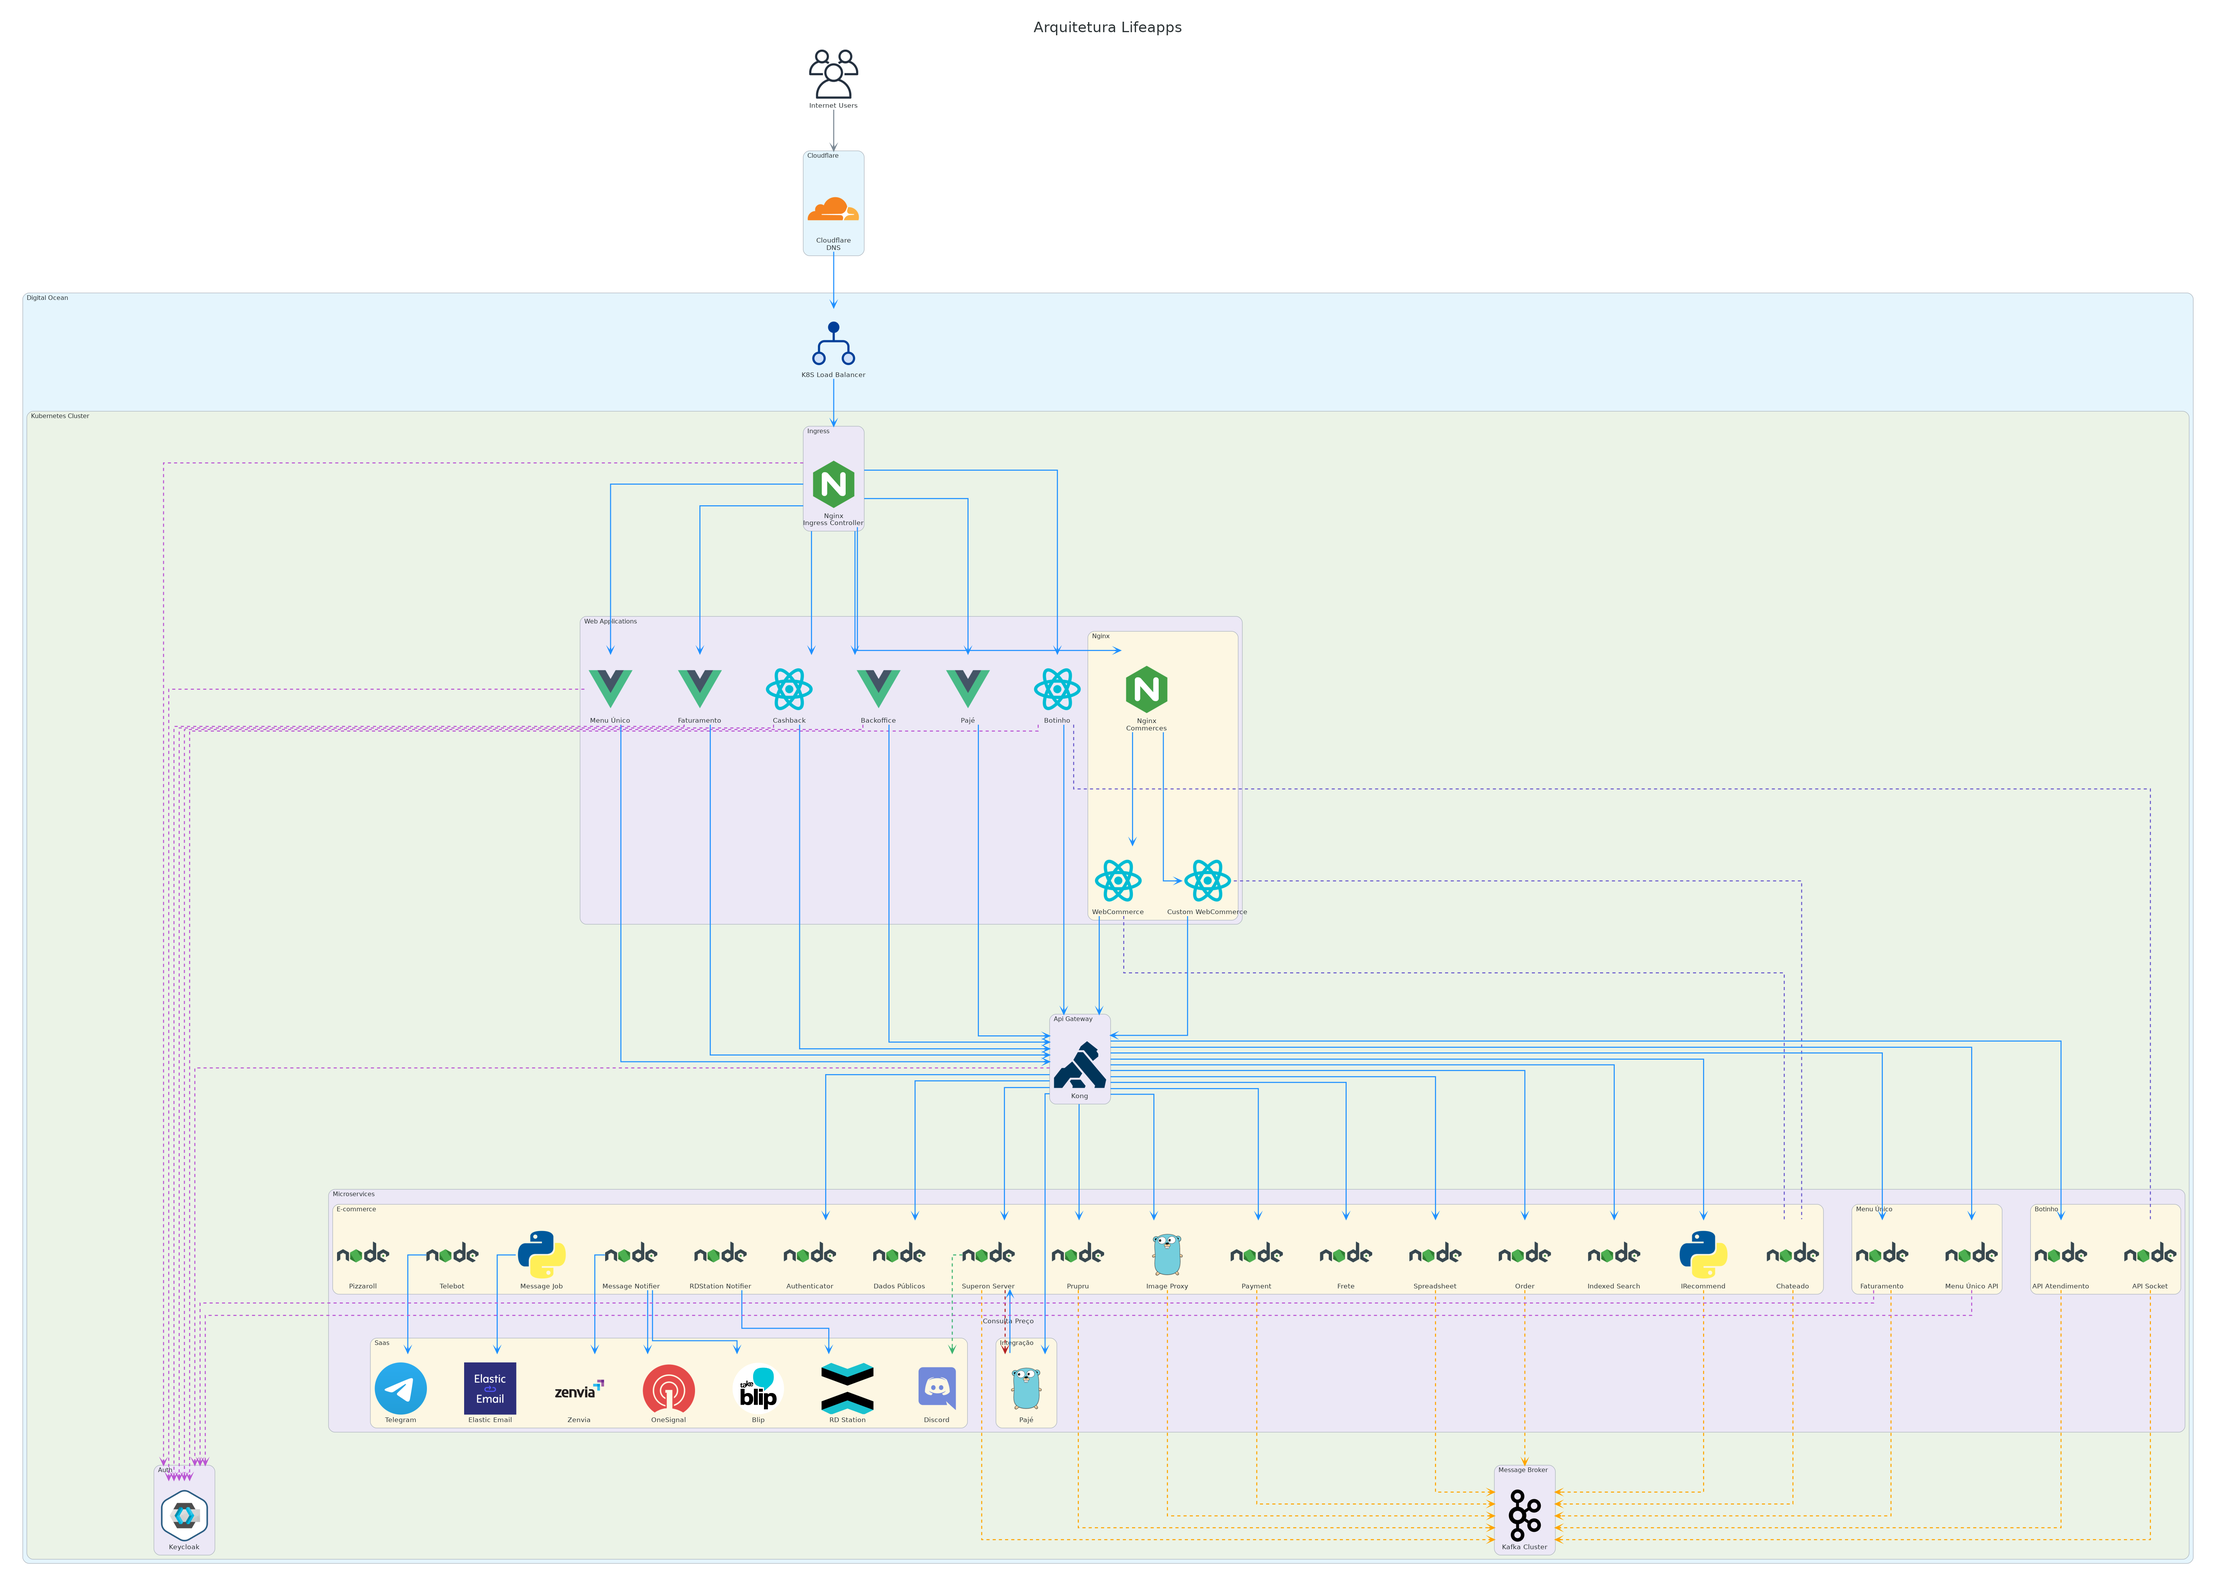
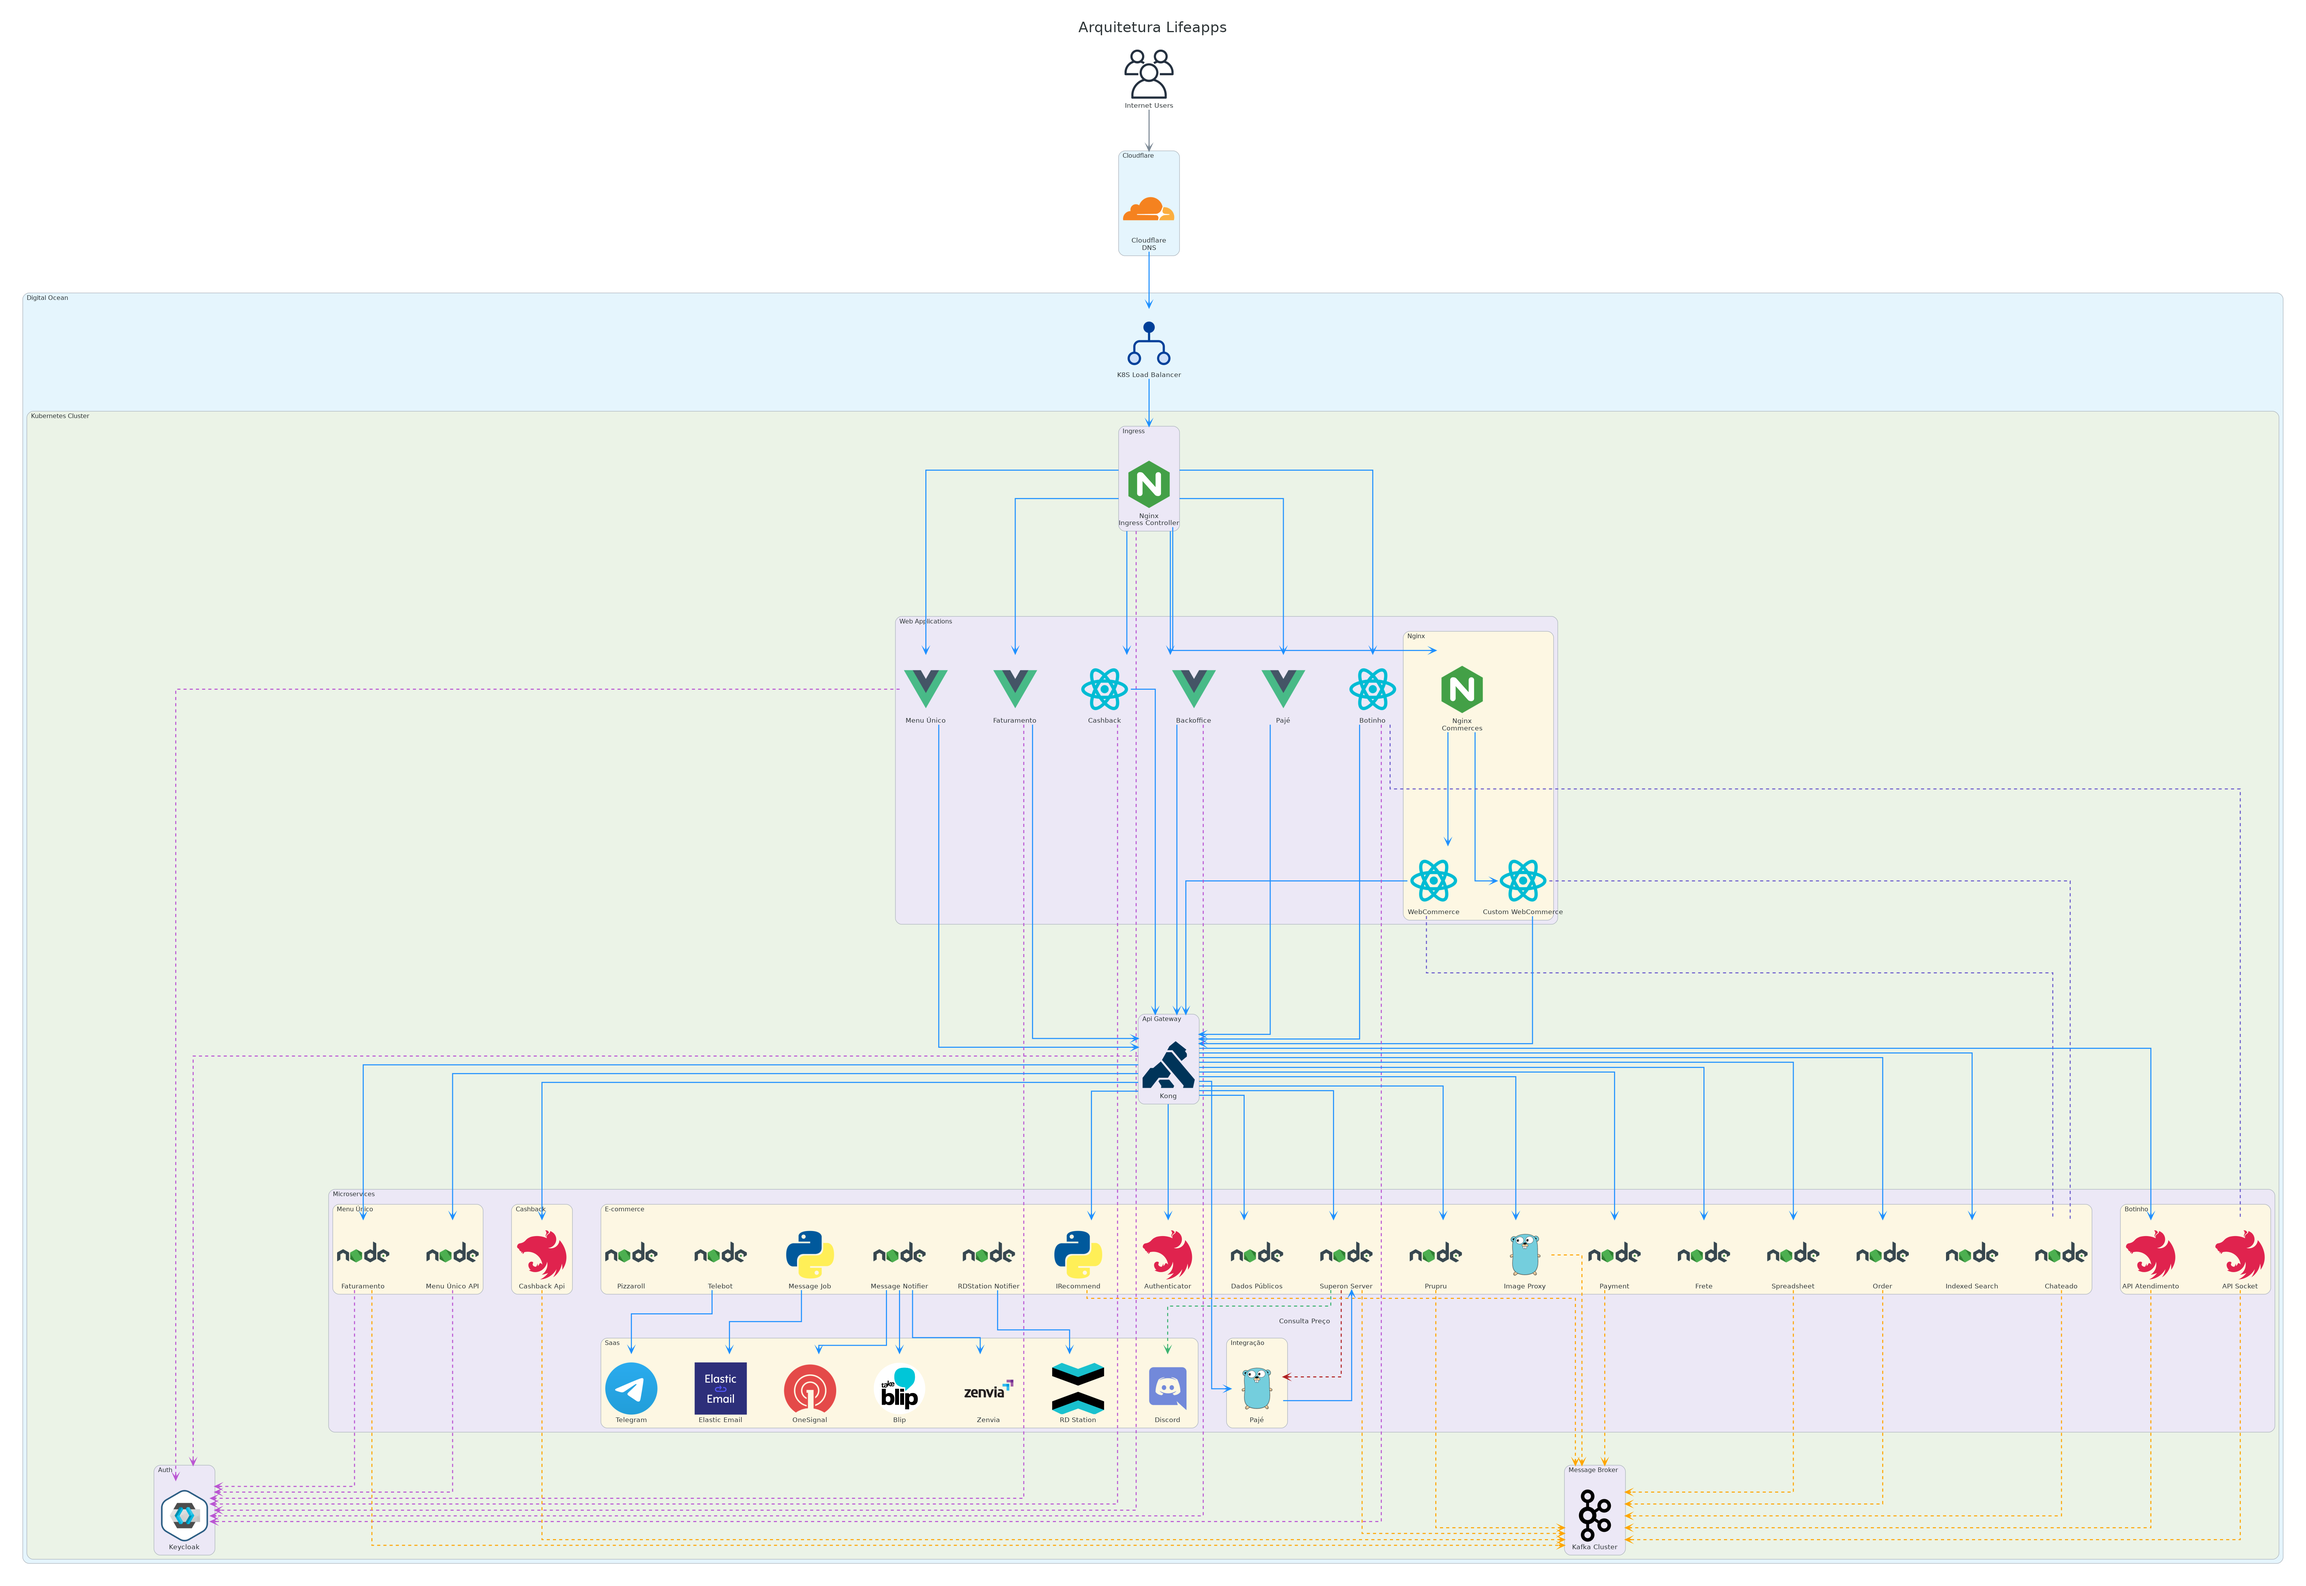
add nest applications

diff --git a/src/arquitetura.py b/src/arquitetura.py
@@ -70,6 +70,12 @@ Stream = partial(Edge, style="dashed", color="orange")
 Socket = partial(Edge, style="dashed", color="slateblue")
 Webhook = partial(Edge, style="dashed", color="mediumseagreen")
 
+
+def nestjs(label: str) -> Custom:
+    """Create a custom node with the NestJS icon."""
+    return Custom(label, "../icons/nest.png")
+
+
 # pylint: disable=W0104,W0106
 with Diagram(
     "Arquitetura Lifeapps",
@@ -219,7 +225,7 @@ with Diagram(
                     image_proxy = Go("Image Proxy")
                     irecommend = Python("IRecommend")
                     chateado = NodeJS("Chateado")
-                    authenticator = NodeJS("Authenticator")
+                    authenticator = nestjs("Authenticator")
                     dadospublicos = NodeJS("Dados Públicos")
                     message_job = Python("Message Job")
                     prupru = NodeJS("Prupru")
@@ -233,11 +239,13 @@ with Diagram(
                     message_job >> Rest() >> elastic_email
                     server >> Webhook() >> discord
                 with Cluster("Botinho"):
-                    api_atendimento = NodeJS("API Atendimento")
-                    api_socket = NodeJS("API Socket")
+                    api_atendimento = nestjs("API Atendimento")
+                    api_socket = nestjs("API Socket")
                     botinho - Socket() - api_socket
                 with Cluster("Integração"):
                     paje = Go("Pajé")
+                with Cluster("Cashback"):
+                    cashback_api = nestjs("Cashback Api")
                 with Cluster("Menu Único"):
                     menu_unico_api = NodeJS("Menu Único API")
                     faturamento = NodeJS("Faturamento")
@@ -263,6 +271,7 @@ with Diagram(
                         image_proxy,
                         menu_unico_api,
                         api_atendimento,
+                        cashback_api,
                     ]
                 )
                 (server >> Grpc(label="Consulta Preço") >> paje)
@@ -291,6 +300,7 @@ with Diagram(
                         image_proxy,
                         api_atendimento,
                         api_socket,
+                        cashback_api,
                     ]
                     >> Stream(
                         lhead="cluster_Message Broker",
